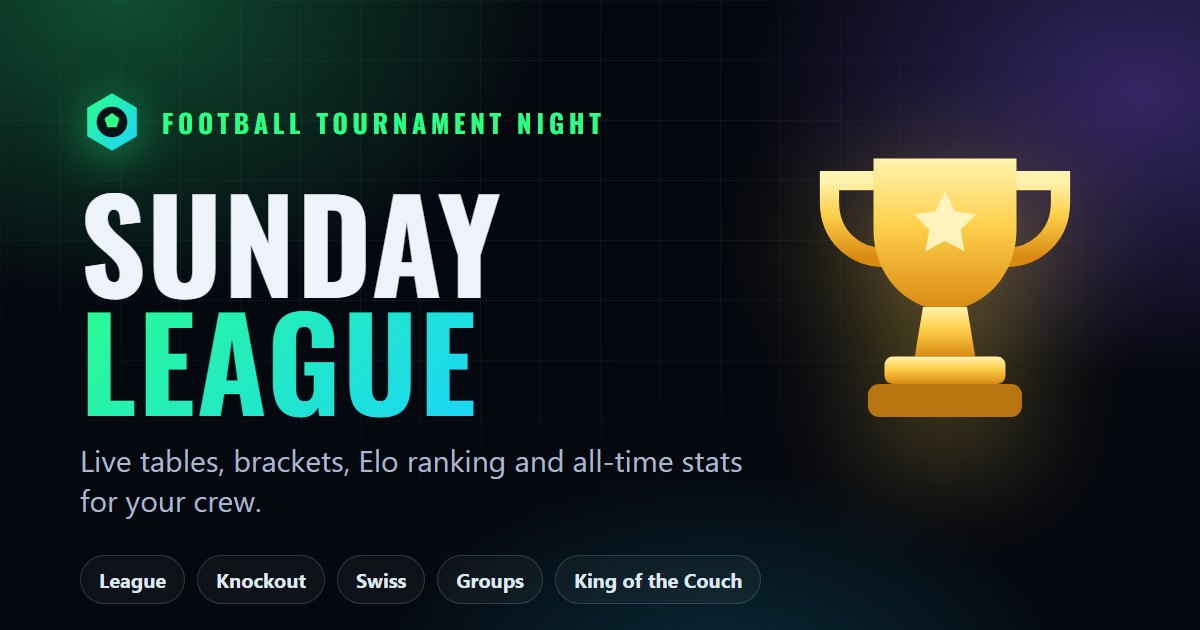
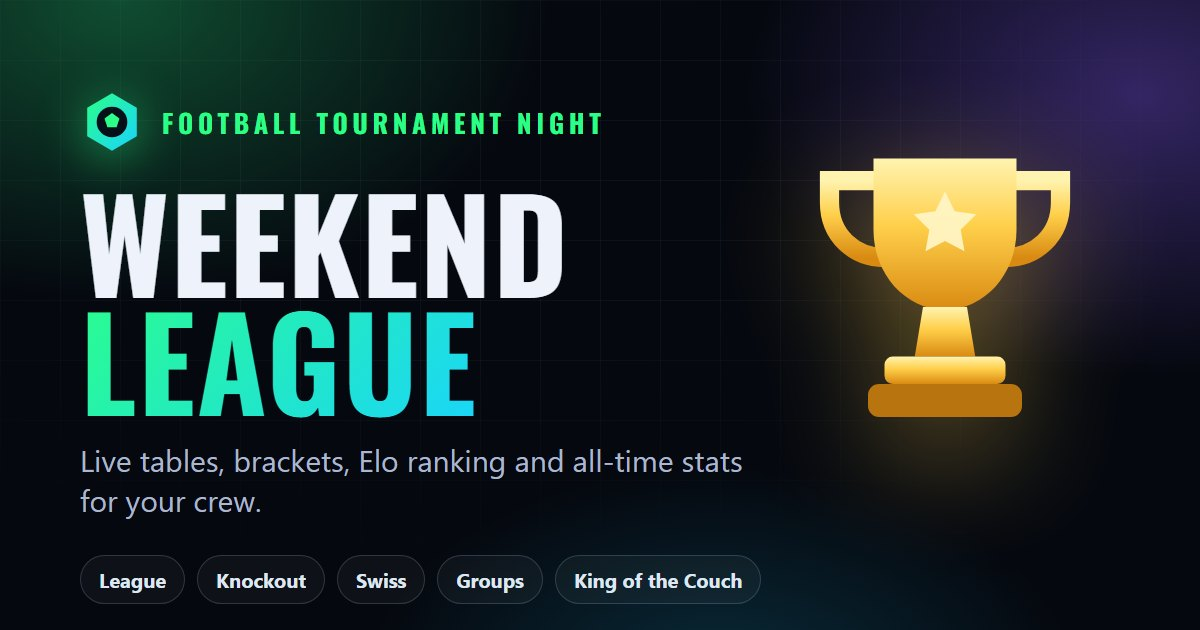
Rename to Weekend League (not tied to Sundays)
New brand and headline ('Every weekend. A new champion.'), updated texts,
manifest, page titles and link-preview image; demo tournaments now fall on
Saturdays and Sundays. The internal storage key is unchanged so saved data
keeps working.

Changed region(s): [[0.0617, 0.3016, 0.4933, 0.4825]]

diff --git a/js/core/i18n.js b/js/core/i18n.js
@@ -1,14 +1,14 @@
 // Translations (Polish + English) with plural rules and date formatting.
 
 const pl = {
-  'brand.default': 'Niedzielna Liga',
+  'brand.default': 'Weekend League',
   'nav.home': 'Start', 'nav.tournaments': 'Turnieje', 'nav.players': 'Gracze', 'nav.stats': 'Statystyki', 'nav.settings': 'Ustawienia',
   'nav.new': 'Nowy turniej', 'nav.newShort': 'Nowy',
-  'footer.tagline': 'Niedzielne wieczory, piłka i przechwałki.',
+  'footer.tagline': 'Weekendowe wieczory, piłka i przechwałki.',
   'footer.local': 'Dane zapisane lokalnie w tej przeglądarce',
 
   'home.eyebrow': 'Konsolowe turnieje piłkarskie',
-  'home.title1': 'Każda niedziela.', 'home.title2': 'Nowy mistrz.',
+  'home.title1': 'Każdy weekend.', 'home.title2': 'Nowy mistrz.',
   'home.lead': 'Twórz turnieje w kilka sekund, wpisuj wyniki na żywo i sprawdź, kto naprawdę rządzi na kanapie.',
   'home.ctaNew': 'Zacznij turniej', 'home.ctaPlayers': 'Dodaj graczy', 'home.ctaContinue': 'Wróć do turnieju',
   'home.live': 'Trwa teraz', 'home.continue': 'Kontynuuj', 'home.nextMatch': 'Następny mecz',
@@ -83,7 +83,7 @@ const pl = {
   'pl.avatar': 'Awatar', 'pl.color': 'Kolor', 'pl.delete': 'Usuń gracza',
   'pl.cantDelete': 'Ten gracz ma historię turniejów, więc nie można go usunąć. Możesz zmienić mu imię.',
   'pl.deleteConfirm': 'Usunąć gracza {name}?', 'pl.deleted': 'Gracz usunięty', 'pl.saved': 'Gracz zapisany', 'pl.added': 'Dodano: {name}',
-  'pl.nameRequired': 'Podaj imię', 'pl.empty': 'Brak graczy', 'pl.emptyD': 'Dodaj znajomych, z którymi gracie w niedziele.',
+  'pl.nameRequired': 'Podaj imię', 'pl.empty': 'Brak graczy', 'pl.emptyD': 'Dodaj znajomych, z którymi gracie.',
   'pl.matches': 'Mecze', 'pl.winRate': 'Skuteczność', 'pl.gpm': 'Gole na mecz', 'pl.titles': 'Tytuły', 'pl.rank': '#{n} w rankingu',
   'pl.form': 'Forma (ostatnie 10)', 'pl.elo': 'Historia Elo', 'pl.eloSub': 'Ranking po każdym meczu', 'pl.rivals': 'Rywale',
   'pl.nemesis': 'Zmora', 'pl.victim': 'Ulubiona ofiara', 'pl.h2h': 'Bilans z rywalami', 'pl.recent': 'Ostatnie mecze',
@@ -142,14 +142,14 @@ const pl = {
 };
 
 const en = {
-  'brand.default': 'Sunday League',
+  'brand.default': 'Weekend League',
   'nav.home': 'Home', 'nav.tournaments': 'Tournaments', 'nav.players': 'Players', 'nav.stats': 'Stats', 'nav.settings': 'Settings',
   'nav.new': 'New tournament', 'nav.newShort': 'New',
-  'footer.tagline': 'Sunday nights, football and bragging rights.',
+  'footer.tagline': 'Weekend nights, football and bragging rights.',
   'footer.local': 'Data is stored locally in this browser',
 
   'home.eyebrow': 'Console football tournaments',
-  'home.title1': 'Every Sunday.', 'home.title2': 'A new champion.',
+  'home.title1': 'Every weekend.', 'home.title2': 'A new champion.',
   'home.lead': 'Set up a tournament in seconds, enter scores live and find out who really rules the couch.',
   'home.ctaNew': 'Start a tournament', 'home.ctaPlayers': 'Add players', 'home.ctaContinue': 'Back to the tournament',
   'home.live': 'Live now', 'home.continue': 'Continue', 'home.nextMatch': 'Next match',
@@ -224,7 +224,7 @@ const en = {
   'pl.avatar': 'Avatar', 'pl.color': 'Colour', 'pl.delete': 'Delete player',
   'pl.cantDelete': 'This player has tournament history, so they cannot be deleted. You can rename them.',
   'pl.deleteConfirm': 'Delete {name}?', 'pl.deleted': 'Player deleted', 'pl.saved': 'Player saved', 'pl.added': 'Added: {name}',
-  'pl.nameRequired': 'Enter a name', 'pl.empty': 'No players yet', 'pl.emptyD': 'Add the friends you play with on Sundays.',
+  'pl.nameRequired': 'Enter a name', 'pl.empty': 'No players yet', 'pl.emptyD': 'Add the friends you play with.',
   'pl.matches': 'Matches', 'pl.winRate': 'Win rate', 'pl.gpm': 'Goals per match', 'pl.titles': 'Titles', 'pl.rank': '#{n} in the ranking',
   'pl.form': 'Form (last 10)', 'pl.elo': 'Elo history', 'pl.eloSub': 'Rating after every match', 'pl.rivals': 'Rivals',
   'pl.nemesis': 'Nemesis', 'pl.victim': 'Favourite victim', 'pl.h2h': 'Head-to-head', 'pl.recent': 'Recent matches',

diff --git a/index.html b/index.html
@@ -4,12 +4,12 @@
   <meta charset="utf-8">
   <meta http-equiv="Content-Security-Policy" content="default-src 'self'; script-src 'self'; style-src 'self' 'unsafe-inline'; img-src 'self' data:; font-src 'self'; connect-src 'self'; manifest-src 'self'; worker-src 'self'; object-src 'none'; base-uri 'none'; form-action 'none'">
   <meta name="viewport" content="width=device-width, initial-scale=1, viewport-fit=cover">
-  <title>Sunday League · Football tournament night</title>
-  <meta name="description" content="Run your Sunday football game-night tournaments: league, knockout, Swiss, groups and King of the Couch. Live tables, brackets, Elo ranking and all-time stats.">
+  <title>Weekend League · Football tournament night</title>
+  <meta name="description" content="Run your weekend football tournaments with friends: league, knockout, Swiss, groups and King of the Couch. Live tables, brackets, Elo ranking and all-time stats.">
   <meta name="theme-color" content="#060a13">
   <meta name="color-scheme" content="dark">
   <meta property="og:type" content="website">
-  <meta property="og:title" content="Sunday League · Football tournament night">
+  <meta property="og:title" content="Weekend League · Football tournament night">
   <meta property="og:description" content="League, knockout, Swiss, groups and King of the Couch. Live tables, brackets, Elo ranking and all-time stats.">
   <meta property="og:url" content="https://liga.smeczynski.pl/">
   <meta property="og:image" content="https://liga.smeczynski.pl/assets/og-image.jpg">

diff --git a/js/core/demo.js b/js/core/demo.js
@@ -54,16 +54,17 @@ export function loadDemo() {
     }
     tours.push(tour);
   };
-  const sunday = (weeksAgo) => {
+  // Saturday (6) or Sunday (0) evening of a past weekend.
+  const weekend = (weeksAgo, weekday) => {
     const d = new Date(now - weeksAgo * 7 * day);
-    d.setDate(d.getDate() - d.getDay());
+    d.setDate(d.getDate() - ((d.getDay() - weekday + 7) % 7));
     d.setHours(19, 0, 0, 0);
     return d.getTime();
   };
-  play('league', ids.slice(0, 6), { legs: 1 }, sunday(4));
-  play('knockout', ids, { thirdPlace: true, seeding: 'random' }, sunday(3));
-  play('groups', ids, { groups: 2, advance: 2, legs: 1, thirdPlace: false }, sunday(2));
-  play('swiss', ids.slice(0, 7), { rounds: 4 }, sunday(1));
+  play('league', ids.slice(0, 6), { legs: 1 }, weekend(4, 6));
+  play('knockout', ids, { thirdPlace: true, seeding: 'random' }, weekend(3, 0));
+  play('groups', ids, { groups: 2, advance: 2, legs: 1, thirdPlace: false }, weekend(2, 6));
+  play('swiss', ids.slice(0, 7), { rounds: 4 }, weekend(1, 0));
   // Tonight: a league in progress.
   play('league', [ids[0], ids[1], ids[2], ids[4], ids[5], ids[7]], { legs: 1 }, now - 2 * 3600000, 8);
   commit((d) => { d.players.push(...players); d.tournaments.push(...tours); }, { type: 'demo' });

diff --git a/js/views/settings.js b/js/views/settings.js
@@ -65,7 +65,7 @@ export function mount(root, _params, _info, { onLang } = {}) {
   root.querySelectorAll('[data-lang]').forEach((b) => b.addEventListener('click', () => onLang?.(b.dataset.lang)));
   root.querySelector('[data-export]').addEventListener('click', () => {
     const stamp = new Date().toISOString().slice(0, 10);
-    download(`sunday-league-backup-${stamp}.json`, JSON.stringify(getDB(), null, 1));
+    download(`weekend-league-backup-${stamp}.json`, JSON.stringify(getDB(), null, 1));
   });
   root.querySelector('[data-import]').addEventListener('change', async (e) => {
     const file = e.target.files[0];

diff --git a/404.html b/404.html
@@ -3,7 +3,7 @@
 <head>
   <meta charset="utf-8">
   <meta name="viewport" content="width=device-width, initial-scale=1">
-  <title>Page not found · Sunday League</title>
+  <title>Page not found · Weekend League</title>
   <meta name="robots" content="noindex">
   <style>
     html, body { margin: 0; height: 100%; background: #05080f; color: #eef3fb; font-family: system-ui, -apple-system, 'Segoe UI', Roboto, sans-serif; }

diff --git a/sw.js b/sw.js
@@ -1,5 +1,5 @@
 // Network-first service worker: always fresh when online, still works offline.
-const CACHE = 'sunday-league-v1';
+const CACHE = 'weekend-league-v1';
 const CORE = ['./', './index.html', './css/app.css', './js/main.js', './manifest.webmanifest', './assets/icons/favicon.svg'];
 
 self.addEventListener('install', (event) => {

diff --git a/js/core/store.js b/js/core/store.js
@@ -3,6 +3,7 @@ import { uid } from './util.js';
 import { buildContext } from './stats.js';
 import { validateDB } from './validate.js';
 
+// Internal storage key; kept unchanged so data saved by earlier versions is still found.
 const KEY = 'sundayleague.v1';
 const listeners = new Set();
 let db = null;

diff --git a/css/app.css b/css/app.css
@@ -1,5 +1,5 @@
 /* ==========================================================================
-   Sunday League · stadium-night theme
+   Weekend League · stadium-night theme
    ========================================================================== */
 
 @font-face {

diff --git a/README.md b/README.md
@@ -1,4 +1,4 @@
-# Sunday League ⚽🏆
+# Weekend League ⚽🏆
 
 A fast, good-looking website for running football game-night tournaments with friends.
 Pick a format, tick who is playing, enter scores on your phone — tables, brackets,
